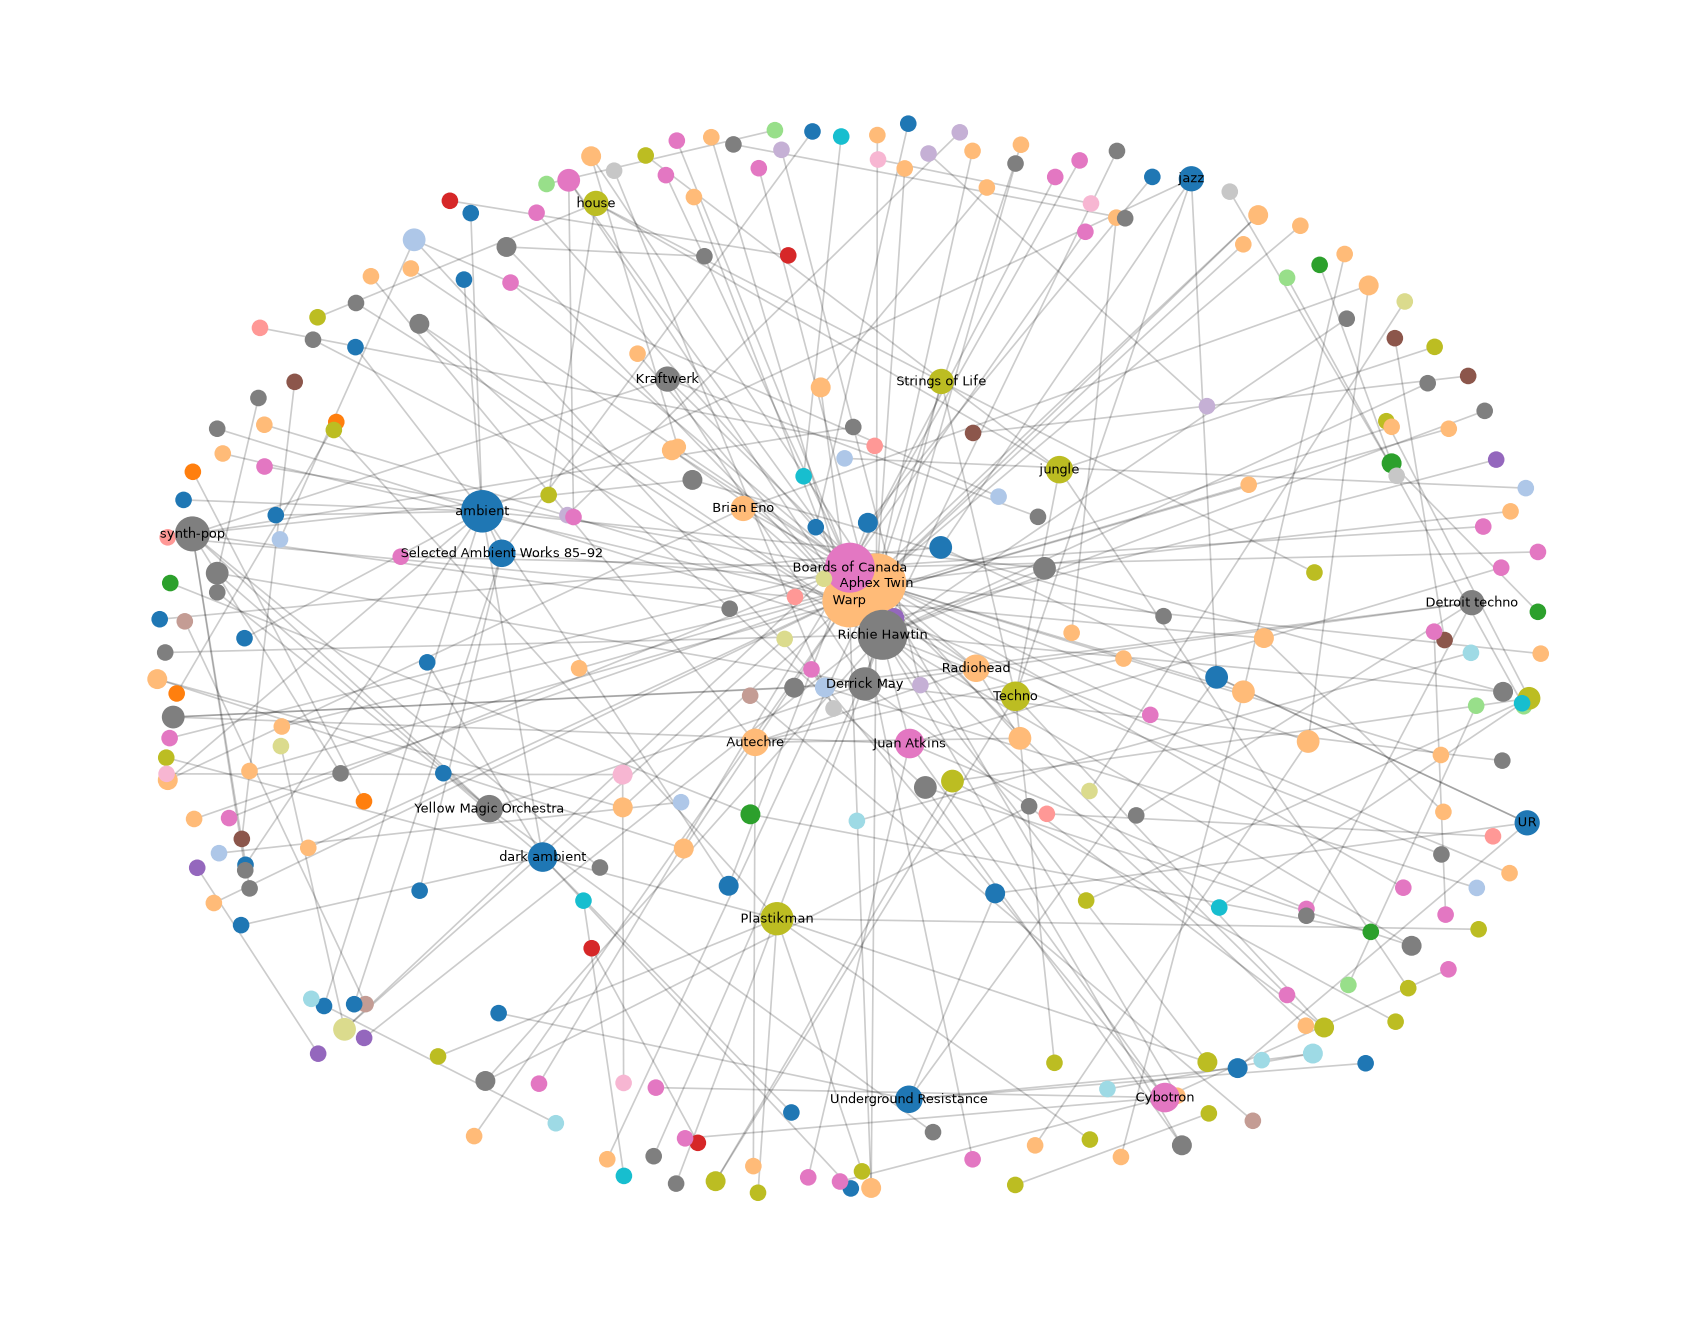
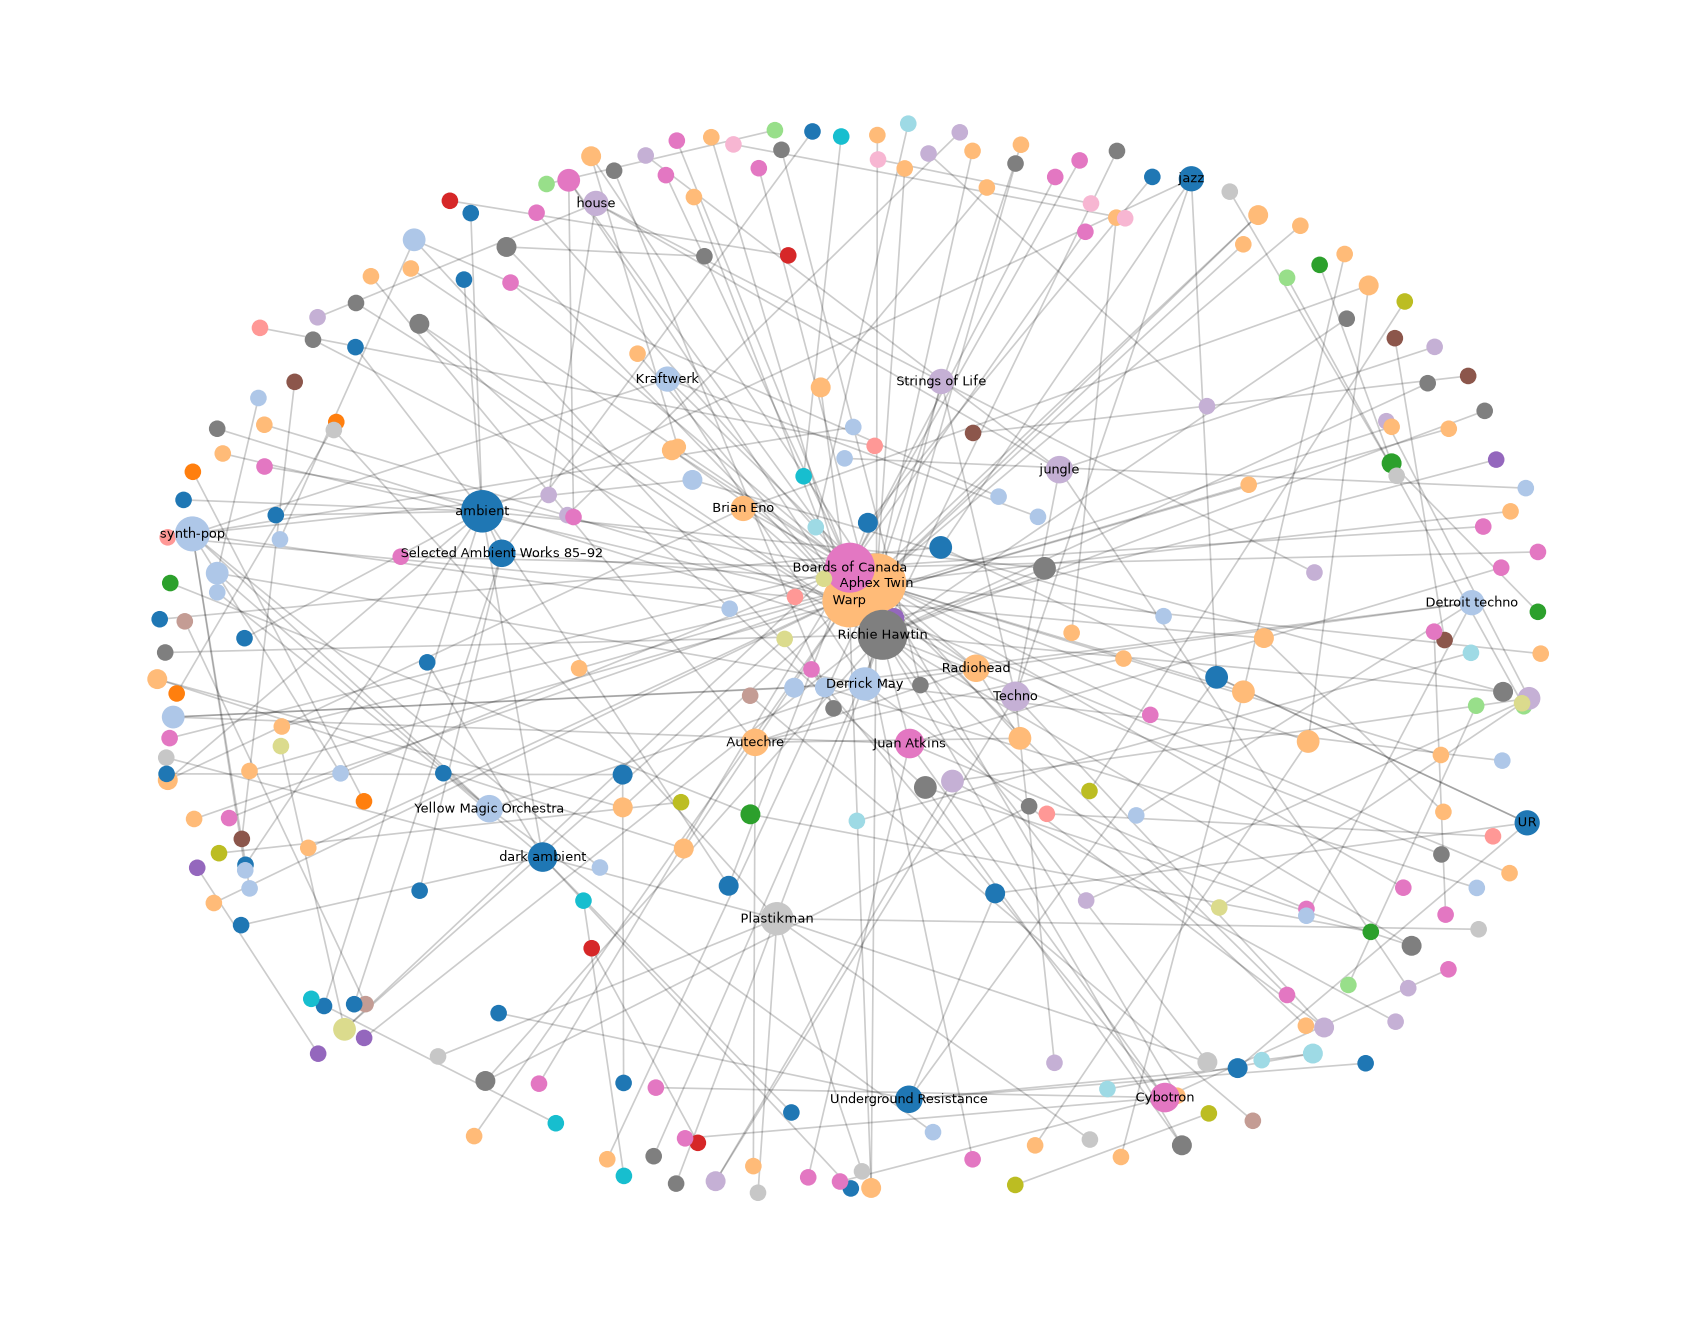
Add GraphRAG community summaries

diff --git a/graphrag.py b/graphrag.py
@@ -1,0 +1,53 @@
+"""GraphRAG: резюме спільнот графа через Gemini -> community_summaries.json"""
+
+import json
+import os
+import time
+
+import community as community_louvain
+from dotenv import load_dotenv
+from google import genai
+
+from build_graph import build_graph
+
+MODEL = "gemini-3.8-flash"
+MIN_SIZE = 5  # резюме робимо тільки для спільнот від 5 вузлів
+
+load_dotenv()
+client = genai.Client(api_key=os.environ["GEMINI_API_KEY"])
+
+
+def ask(prompt):
+    return client.models.generate_content(model=MODEL, contents=prompt).text
+
+
+def summarize_communities():
+    graph = build_graph()
+    partition = community_louvain.best_partition(graph.to_undirected(), random_state=1)
+
+    summaries = {}
+    for c in sorted(set(partition.values())):
+        nodes = [n for n in graph if partition[n] == c]
+        if len(nodes) < MIN_SIZE:
+            continue
+        # зв'язки всередині спільноти, по одному в рядку
+        facts = [
+            f"{graph.nodes[s]['label']} --{d['relation']}--> {graph.nodes[o]['label']}"
+            for s, o, d in graph.edges(data=True) if s in nodes and o in nodes
+        ]
+        prompt = (
+            "Below are facts about electronic music from one community of a knowledge graph.\n"
+            "Write a short summary (3-4 sentences) of what this community is about: "
+            "name the main entities and how they are connected.\n\n" + "\n".join(facts)
+        )
+        print("спільнота", c, "вузлів:", len(nodes))
+        summaries[c] = {"entities": [graph.nodes[n]["label"] for n in nodes], "summary": ask(prompt)}
+        time.sleep(6)  # ліміти безкоштовного API
+    return summaries
+
+
+if __name__ == "__main__":
+    summaries = summarize_communities()
+    with open("community_summaries.json", "w", encoding="utf-8") as f:
+        json.dump(summaries, f, ensure_ascii=False, indent=2)
+    print("Збережено резюме:", len(summaries))

diff --git a/build_graph.py b/build_graph.py
@@ -37,7 +37,7 @@ def build_graph():
 if __name__ == "__main__":
     graph = build_graph()
     # спільноти шукаємо на неорієнтованому графі
-    partition = community_louvain.best_partition(graph.to_undirected())
+    partition = community_louvain.best_partition(graph.to_undirected(), random_state=1)
     print("вузлів:", graph.number_of_nodes(), "ребер:", graph.number_of_edges())
     sizes = sorted([list(partition.values()).count(c) for c in set(partition.values())], reverse=True)
     print("спільнот:", len(sizes), "розміри:", sizes)
